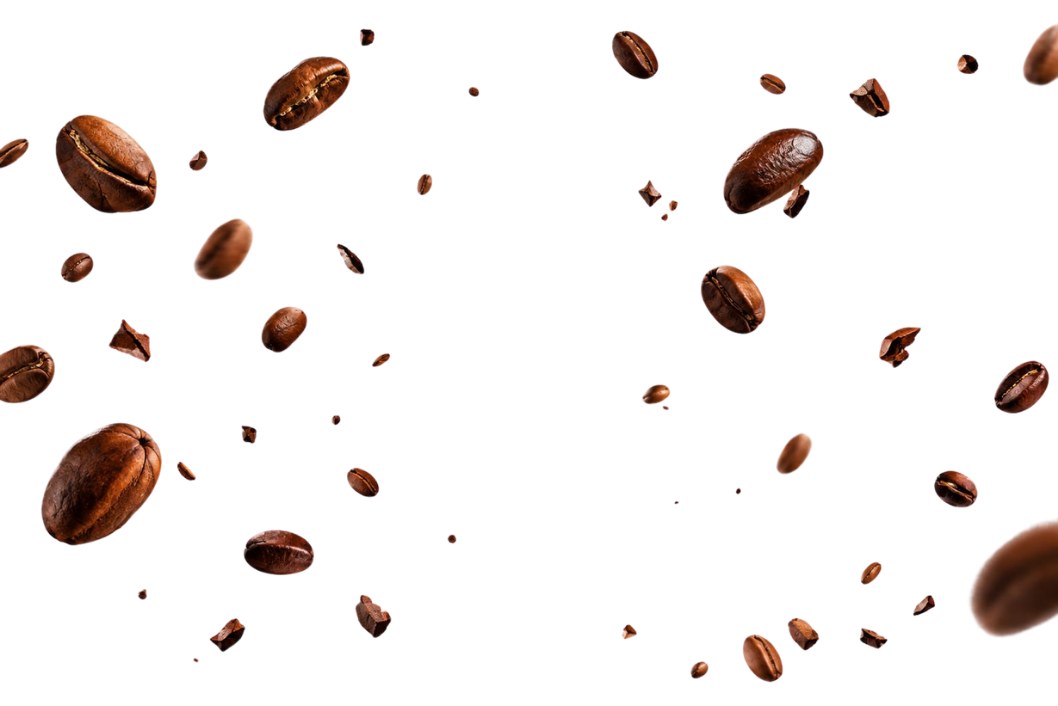
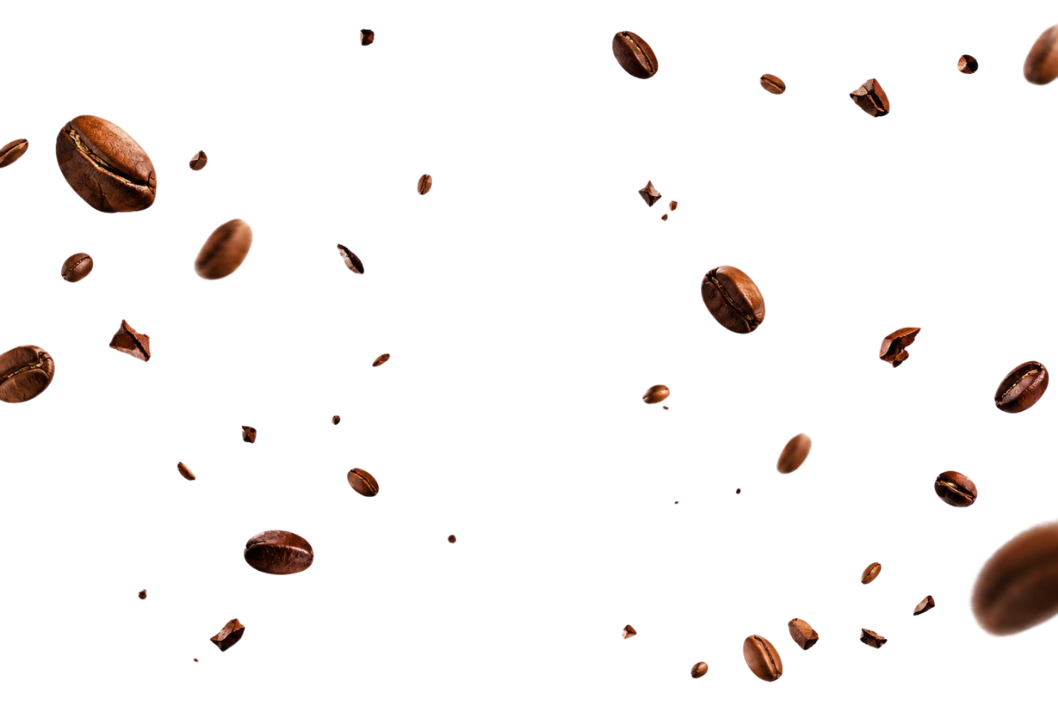
Cria section essence

diff --git a/css/timeline.css b/css/timeline.css
@@ -2,7 +2,7 @@
 
 .historia-cafe {
     background-color: var(--cor-fundo2);
-    padding-bottom: 120px;
+    padding-bottom: 8rem;
     color: #333;
 
     background-image: url(/img/graos1.png);
@@ -15,25 +15,18 @@
 .titulo-historia {
     text-align: center;
     max-width: 700px;
-    margin: 0 auto 6rem;
+    margin: 8rem auto;
 }
 
 .titulo-historia span {
     font-family:'Gill Sans', 'Gill Sans MT', Calibri, 'Trebuchet MS', sans-serif;
-    font-size: 2rem;
+    font-size: 1.5rem;
     position: relative;
-    top: -20px;
+    top: -16px;
     z-index: 1;
     font-weight: var(--font-weight-titulo);
-    letter-spacing: 10px;
+    letter-spacing: 6px;
     text-transform: uppercase;
-}
-
-.titulo-historia h3 {
-    font-family: var(--fonte-titulo);
-    font-size: 6rem;
-    font-weight: var(--font-weight-titulo);
-    margin: 6rem 0 0;
 }
 
 .titulo-historia p {
@@ -87,6 +80,7 @@
     transform: translateX(-50%);
 }
 
+/* sombra */
 .linha-do-tempo::after {
     content: '';
     position: absolute;
@@ -95,7 +89,7 @@
     width: 100vw;
 
     height: 10px;
-    background: linear-gradient(transparent, rgba(0, 0, 0, 0.1));
+    background: linear-gradient(transparent, rgba(0, 0, 0, 0.2));
 }
 
 .linha-do-tempo.expandir::after {

diff --git a/index.html b/index.html
@@ -18,7 +18,7 @@
     <header class="header">
             <div class="container">
                 <div class="logo">
-                    <h3>Café & Cia</h3>
+                    <h6>Café & Cia</h6>
                 </div>
 
                 <nav class="menu-header">
@@ -148,6 +148,28 @@
     </div>
 
     </section>
+
+<!-- ____________ NOSSA ESSÊNCIA ____________ -->
+
+<section class="essence">
+    <section class="container">
+        <div class="essence-content">
+
+            <div class="img-xicara">
+                <img src="img/xicara.png" alt="">
+            </div>
+
+            <div class="texts-essence">
+                <!-- <h4>Nossa essência</h4> -->
+                <h3>Mais do que café.</h3>
+                <p> 
+                    Um lugar para desacelerar.
+                </p>
+            </div>
+            
+        </div>
+    </section>
+</section>
 
     <script src="script.js"></script>
 </body>

diff --git a/css/base.css b/css/base.css
@@ -82,10 +82,10 @@ span {
 }
 
 h3 {
-    font-family: var(--fonte-texto-alternativo);
-    font-size: clamp(20px, 2rem, 400px);
-    font-weight: 400;
-    color: var(--span);
+    font-family: var(--fonte-titulo);
+    font-size: 6rem;
+    font-weight: var(--font-weight-titulo);
+    margin: 5rem 0 0;
 }
 
 h4 {
@@ -107,6 +107,14 @@ p {
     font-size: 1.2vw;
     font-weight: 100;
     color: var(--cor-span);
+}
+
+/* Logo */
+h6 {
+    font-family: var(--fonte-titulo);
+    font-size: 40px;
+    color: inherit;
+    font-weight: 100;
 }
 
 /* ____________ Botões ____________ */

diff --git a/css/essence.css b/css/essence.css
@@ -1,0 +1,26 @@
+/* .essence {
+    text-align: center;
+}
+
+.essence h4 {
+    font-size: 18px;
+    padding-top: 6rem;
+    text-align: center;
+} */
+
+.essence-content {
+    display: flex;
+    justify-content:space-around;
+    align-items: center;
+    padding-bottom: 5rem;
+}
+
+.img-xicara img {
+    width: 40vw;
+    position: relative;
+    left: -188px;
+}
+
+.texts-essence p {
+    text-align: right;
+}

diff --git a/css/header.css b/css/header.css
@@ -21,14 +21,6 @@ header ul {
     gap: 20px;
 }
 
-/* Logo */
-header h3 {
-    font-family: var(--fonte-titulo);
-    font-size: 40px;
-    color: inherit;
-    font-weight: 100;
-}
-
 header li {
     letter-spacing: 1px;
 }

diff --git a/css/global.css b/css/global.css
@@ -3,6 +3,6 @@
 @import url(hero.css);
 @import url(menu.css);
 @import url(timeline.css);
-@import url();
+@import url(essence.css);
 @import url();
 @import url();

diff --git a/css/menu.css b/css/menu.css
@@ -1,6 +1,6 @@
 .menu {
     background-color: white;
-    padding: 100px 0;
+    /* padding: 150px 0 190px; */
 }
 
 .sessao-menu {
